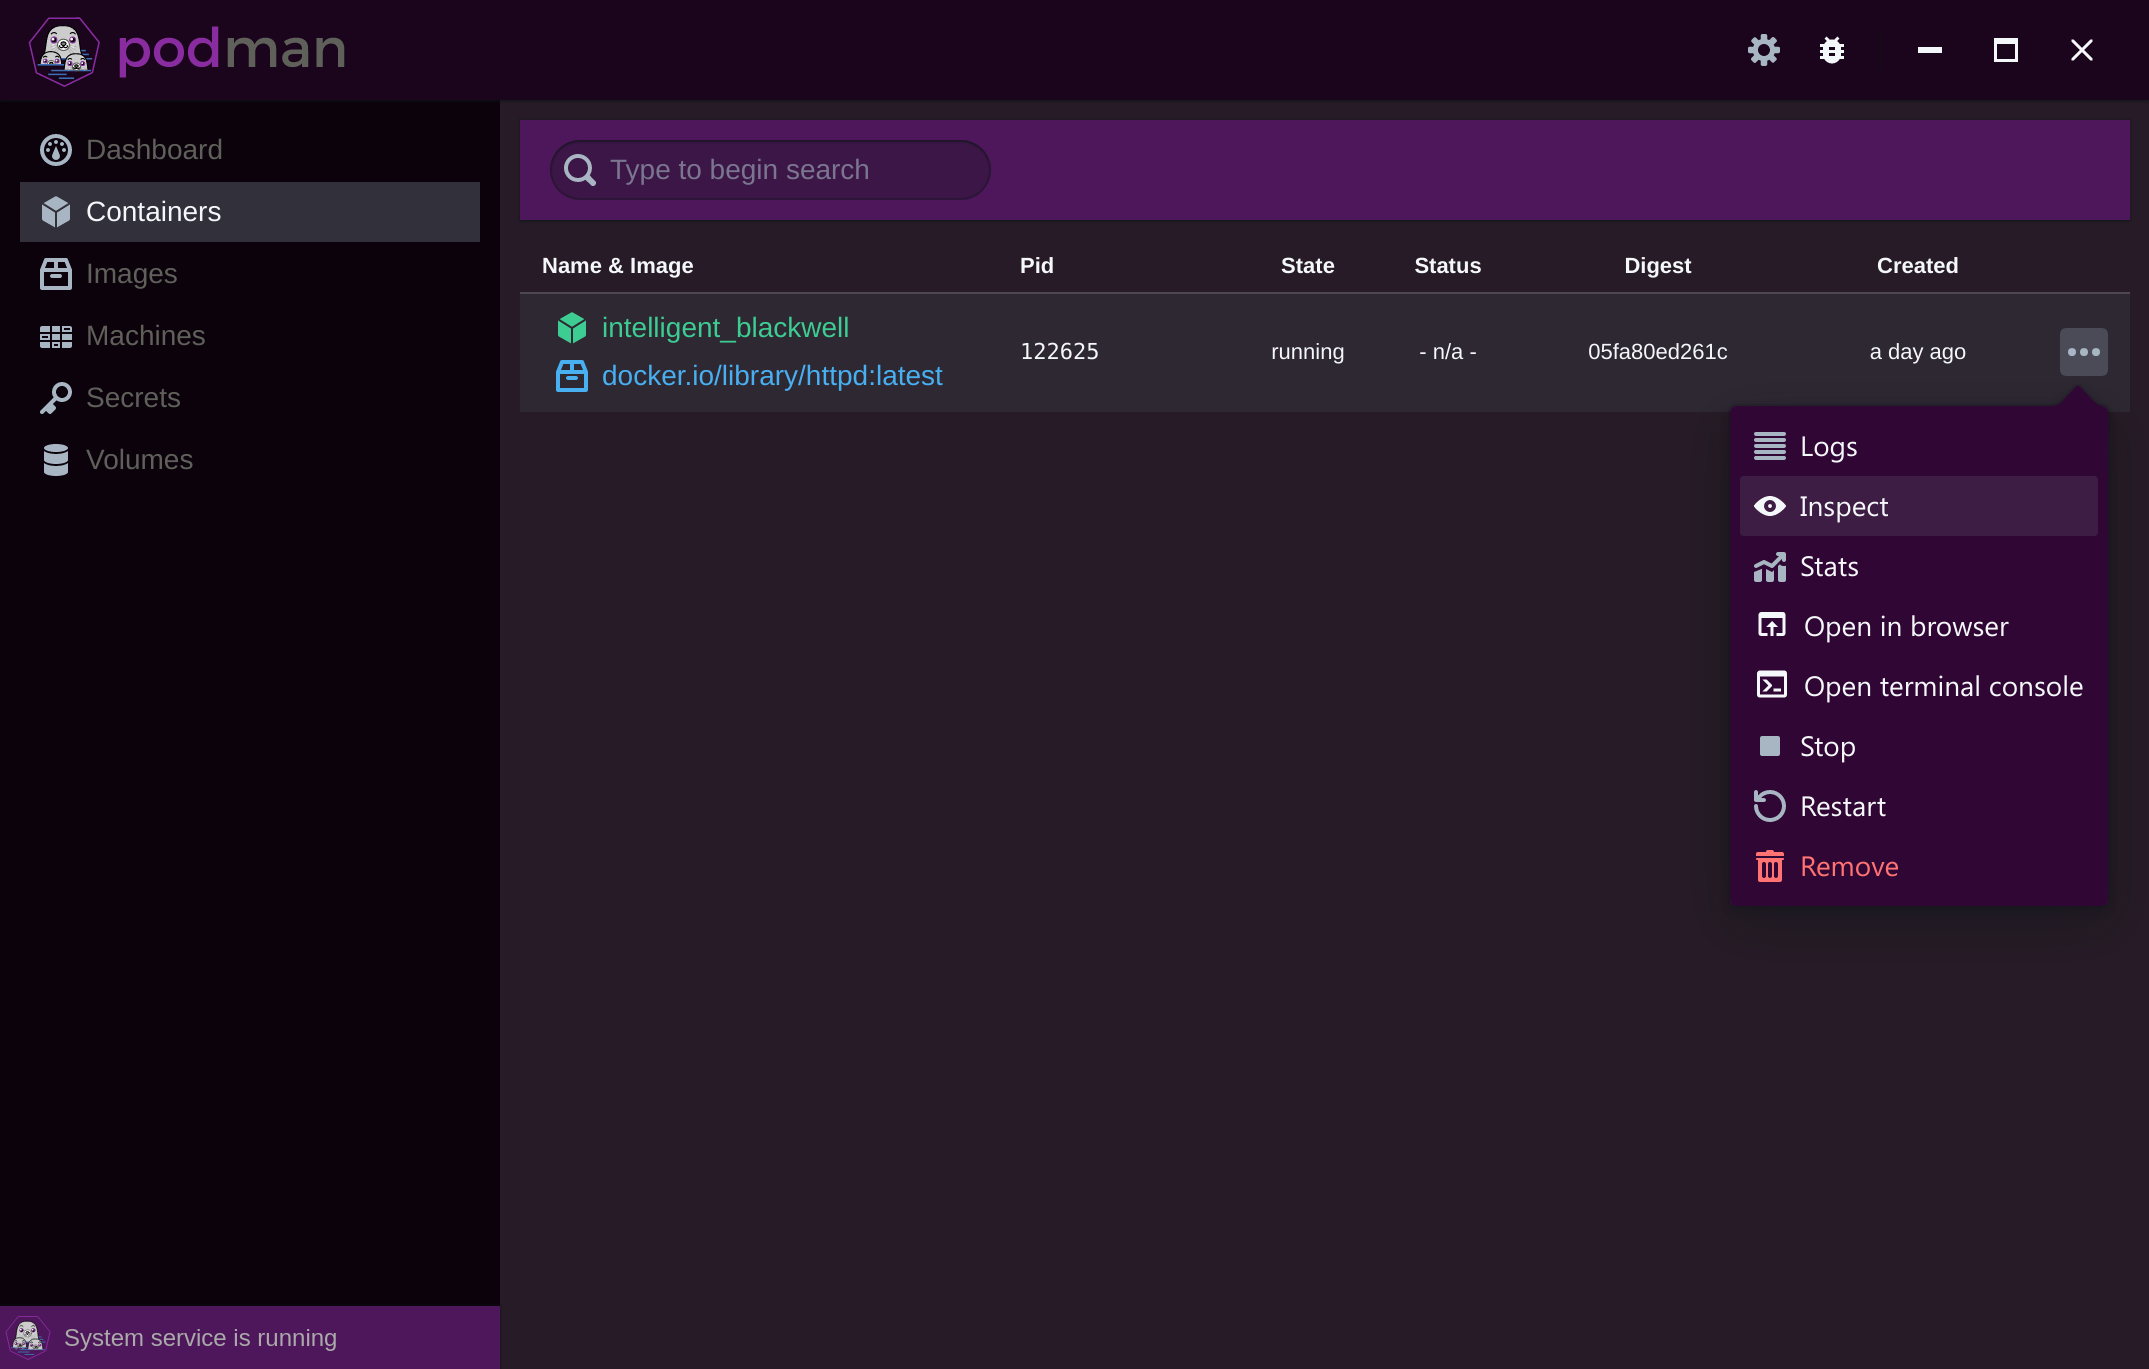
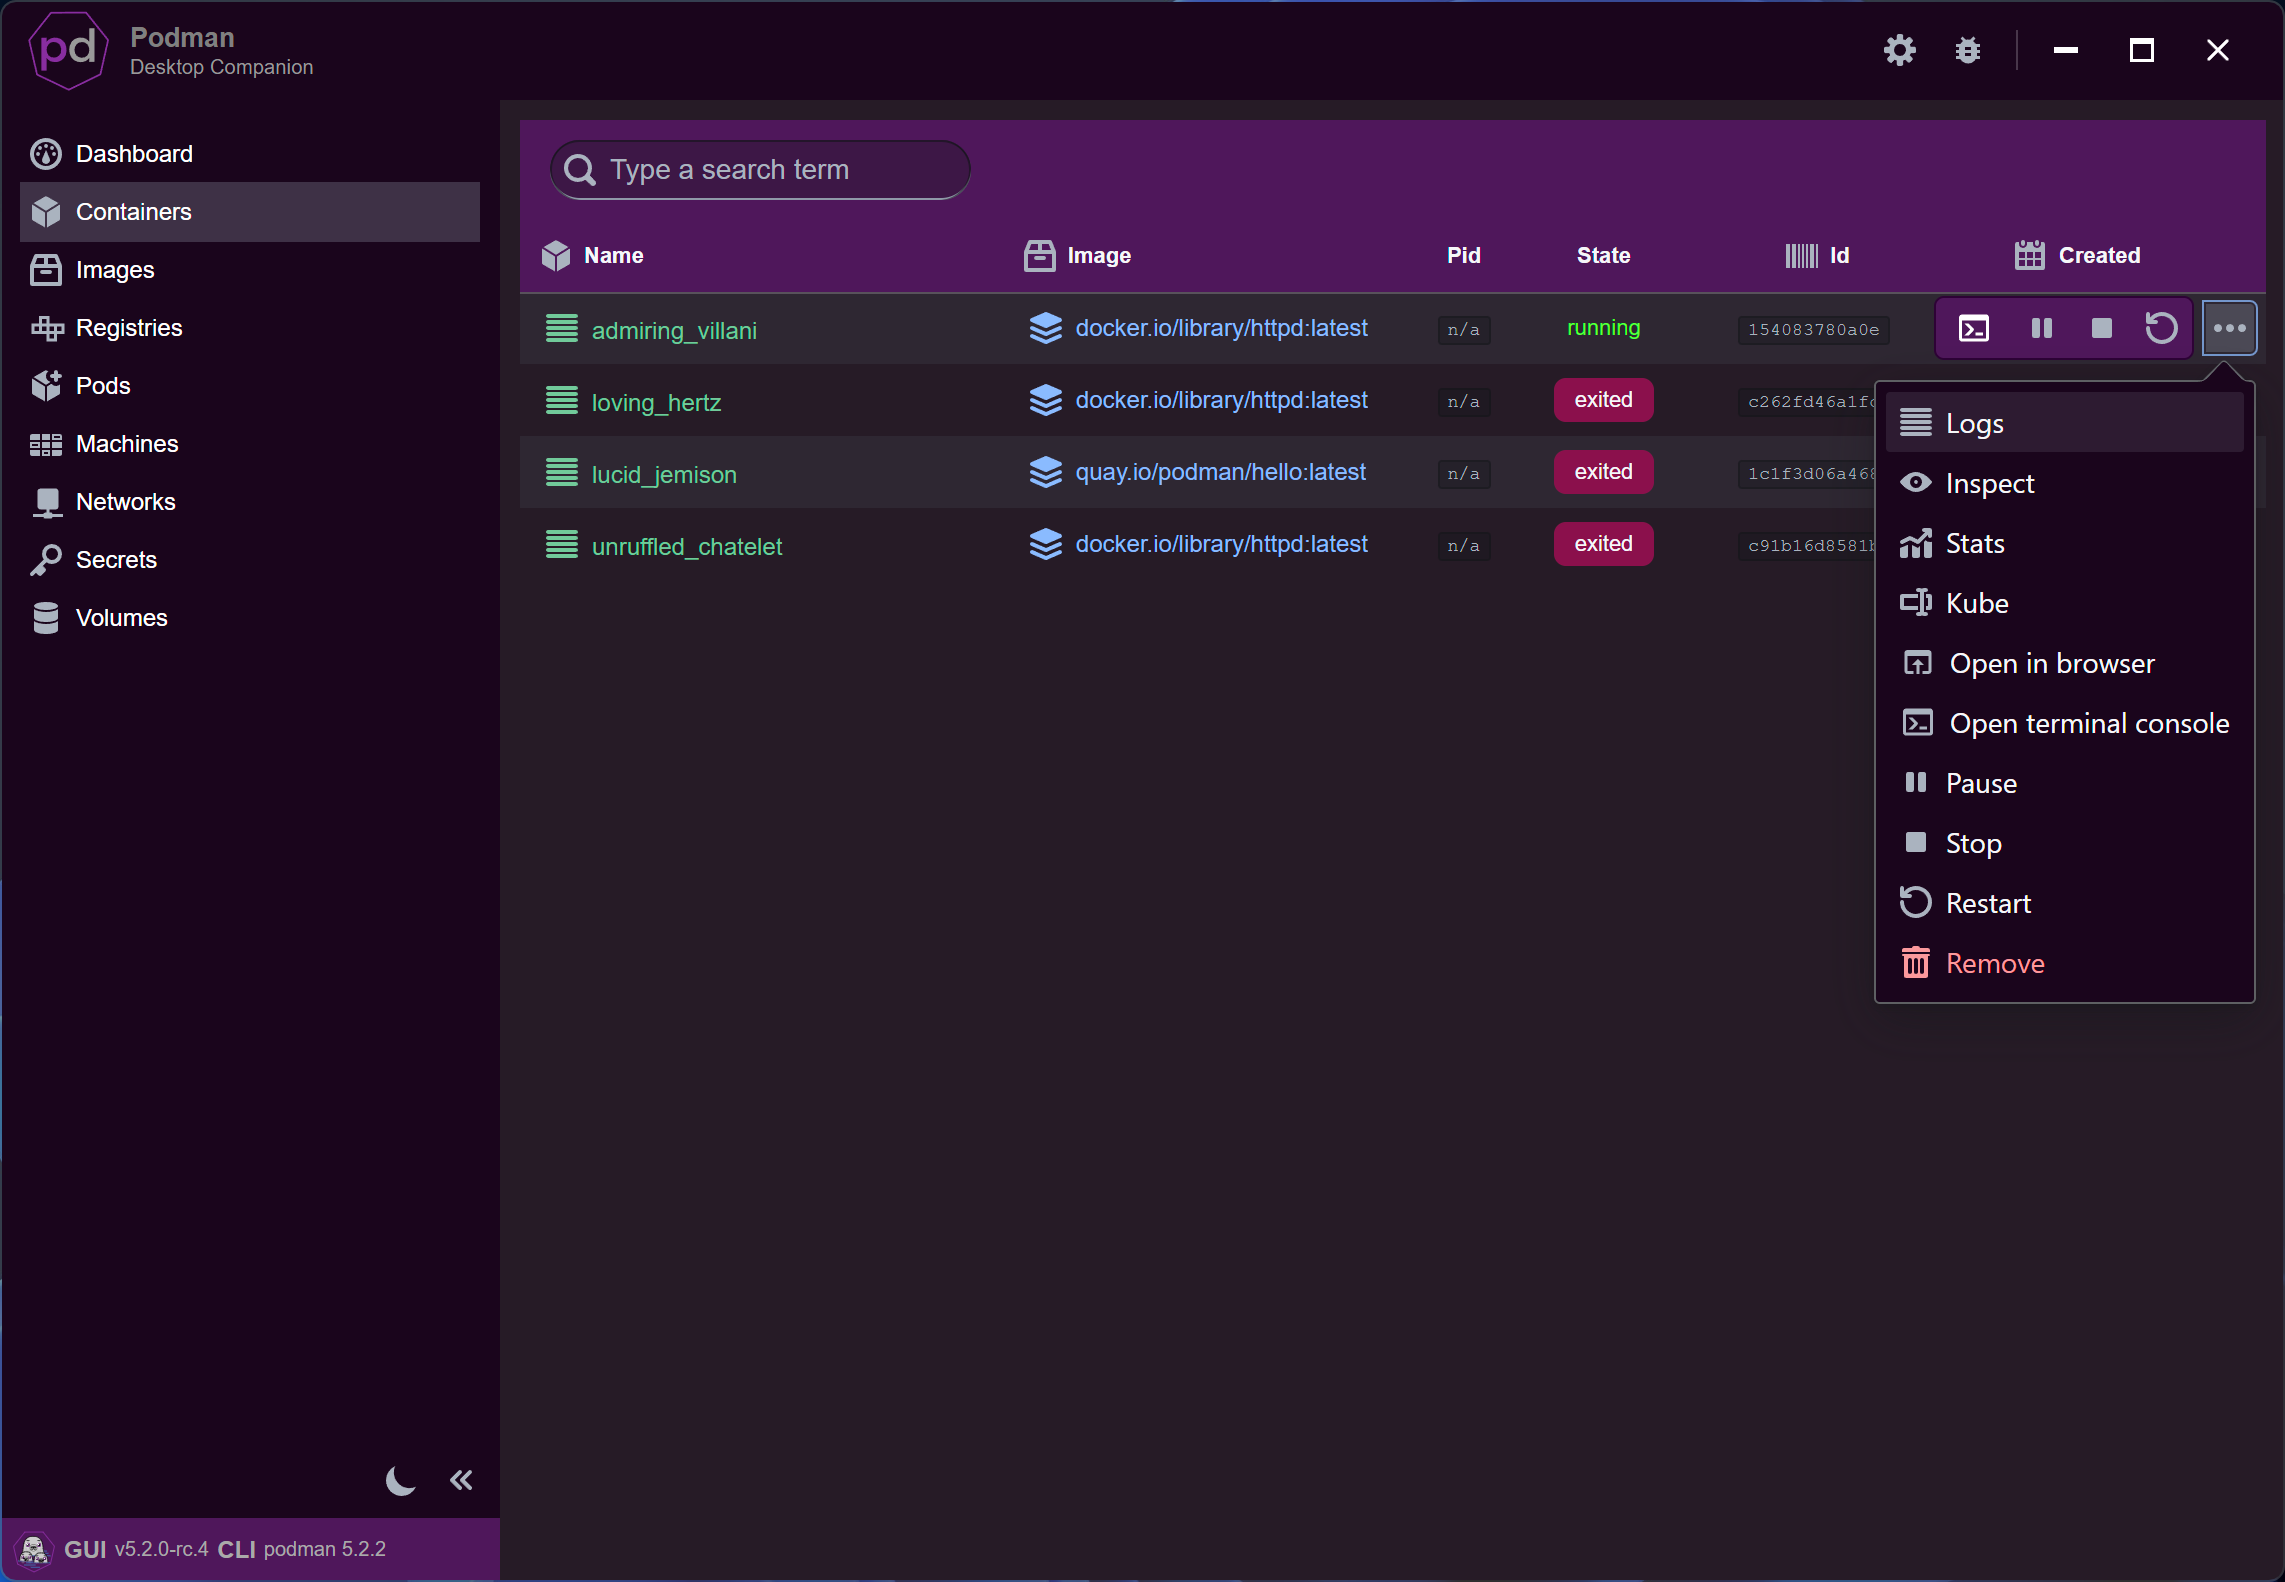
Update screenshots

diff --git a/README.md b/README.md
@@ -40,4 +40,8 @@ Main goals
 
 ## Multiple engines supported, familiar ones too
 
-![Engine Settings Screen](docs/img/DockerSettings.png?raw=true)
+![Engine Settings Screen](docs/img/ConnectionManager.png?raw=true)
+
+## Comprehensive actions
+
+![Engine Settings Screen](docs/img/003-ContainerActions.png?raw=true)
